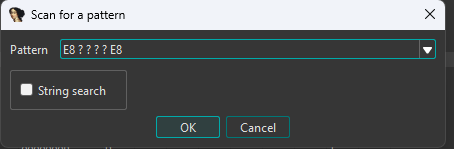
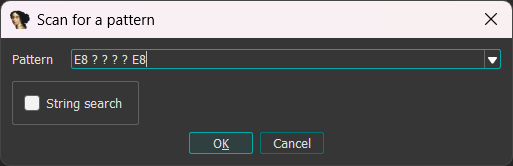
Update README to reflect changes

diff --git a/README.md b/README.md
@@ -8,12 +8,12 @@ An [IDA Pro](https://hex-rays.com/ida-pro) pattern scanner plugin powered by [Li
 3. Load any binary
 4. Use default hotkey Alt+B to run libhat-ida or run via Edit -> Plugins -> Libhat
 5. Enter an ida style byte pattern in the libhat-ida GUI and press OK to execute a scan
-### ![gui](./res/gui.png)
-
-- Alternatively, check the String search checkbox to perform a (case sensitive) scan of the entered string
-
-6. Once a scan is completed a dockable IDA Sequence of bytes result style window will be shown, listing all yielded results
-### ![result](./res/result.png)
+   ### ![gui](./res/gui.png)
+   Alternatively, check the String search checkbox to perform a (case sensitive) scan of the entered string OR surround
+   your query in double quotes:
+   ### ![gui](./res/gui_string.png)
+6. Once a scan is completed, a dockable IDA Sequence of bytes result style window will be shown, listing all yielded results
+   ### ![result](./res/result.png)
 7. Double click any result to jump to it's respective address
 
 ## License
